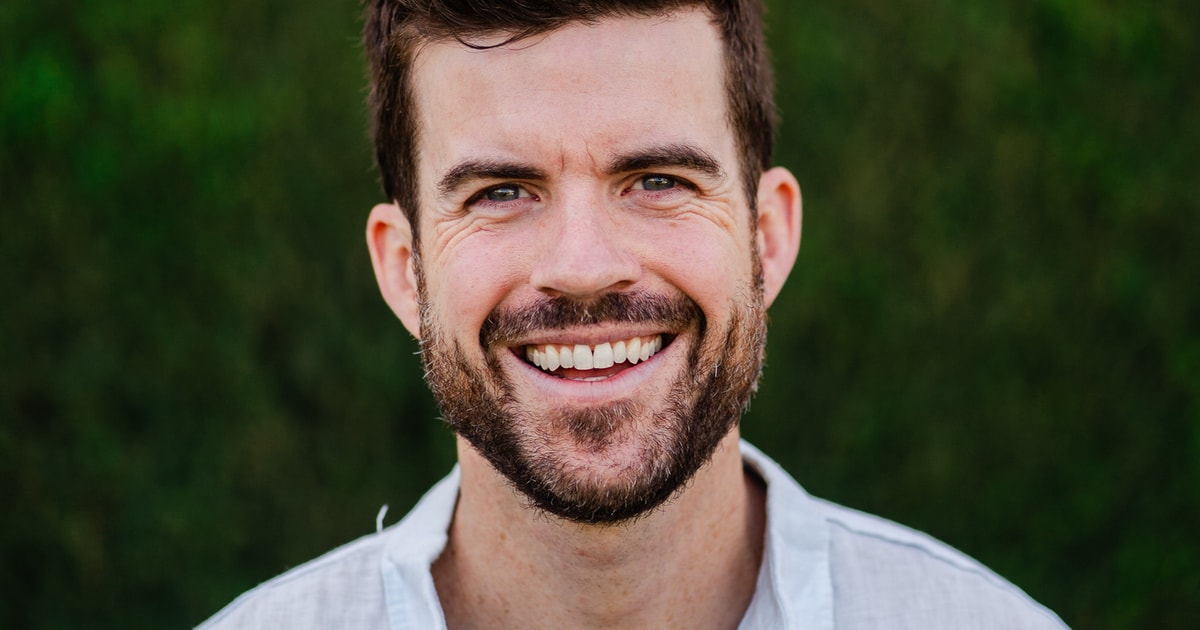
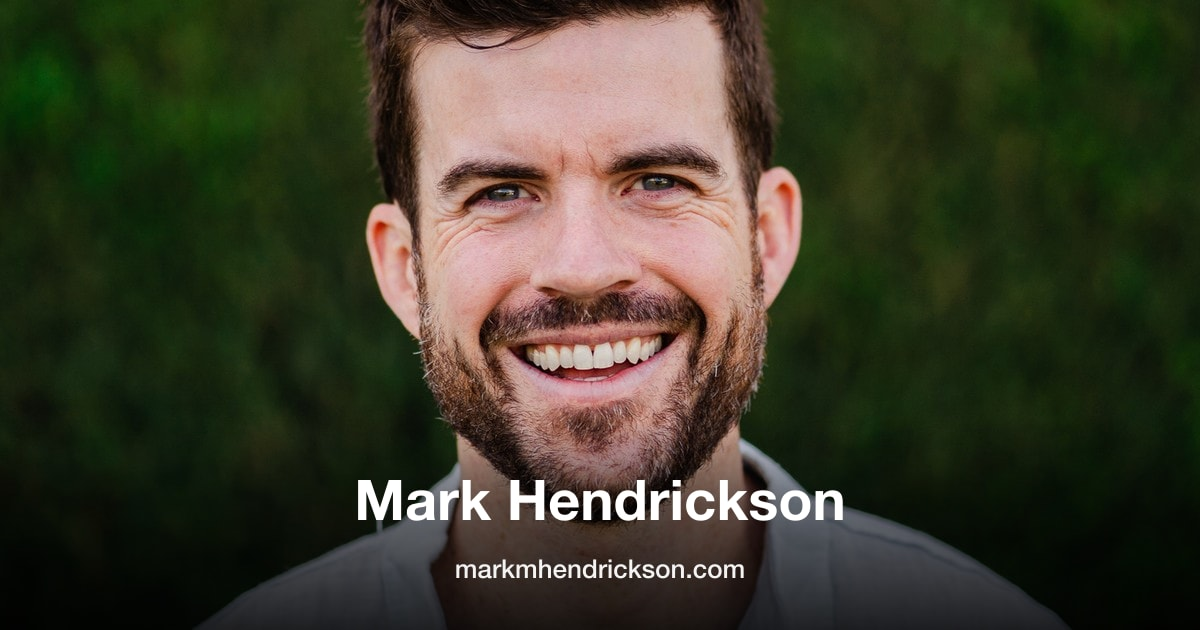
fix: home-only OG image; add headline and CTA to default OG image

Changed region(s): [[0.0308, 0.6937, 1.0, 1.0]]

diff --git a/react-app/src/components/Layout.tsx b/react-app/src/components/Layout.tsx
@@ -1,5 +1,5 @@
 import React, { useEffect, useState } from 'react'
-import { useParams, type Params } from 'react-router-dom'
+import { useLocation, useParams, type Params } from 'react-router-dom'
 import { Helmet } from 'react-helmet-async'
 import { Layout as SharedLayout } from '@shared/components/Layout'
 import { Home, FileText, FileEdit, Share2, Clock } from 'lucide-react'
@@ -33,8 +33,10 @@ interface LayoutProps {
 }
 
 export function Layout({ children }: LayoutProps) {
+  const location = useLocation()
   const params = useParams()
   const [postTitle, setPostTitle] = useState<string | null>(null)
+  const isHome = location.pathname === '/'
 
   // Load post title if we're on a post page
   useEffect(() => {
@@ -87,14 +89,18 @@ export function Layout({ children }: LayoutProps) {
         <meta property="og:title" content={defaultTitle} />
         <meta property="og:description" content={defaultDescription} />
         <meta property="og:url" content={defaultUrl} />
-        <meta property="og:image" content={defaultImage} />
-        <meta property="og:image:width" content={String(ogImageWidth)} />
-        <meta property="og:image:height" content={String(ogImageHeight)} />
+        {isHome && (
+          <>
+            <meta property="og:image" content={defaultImage} />
+            <meta property="og:image:width" content={String(ogImageWidth)} />
+            <meta property="og:image:height" content={String(ogImageHeight)} />
+            <meta name="twitter:image" content={defaultImage} />
+            <meta name="twitter:image:width" content={String(ogImageWidth)} />
+            <meta name="twitter:image:height" content={String(ogImageHeight)} />
+          </>
+        )}
         <meta name="twitter:title" content={defaultTitle} />
         <meta name="twitter:description" content={defaultDescription} />
-        <meta name="twitter:image" content={defaultImage} />
-        <meta name="twitter:image:width" content={String(ogImageWidth)} />
-        <meta name="twitter:image:height" content={String(ogImageHeight)} />
       </Helmet>
       <SharedLayout
         siteName="Mark Hendrickson"
